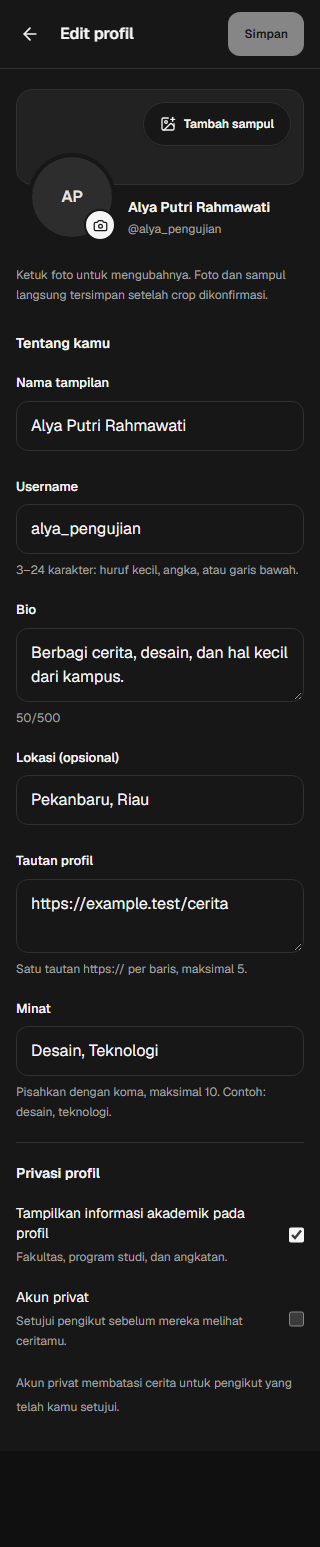
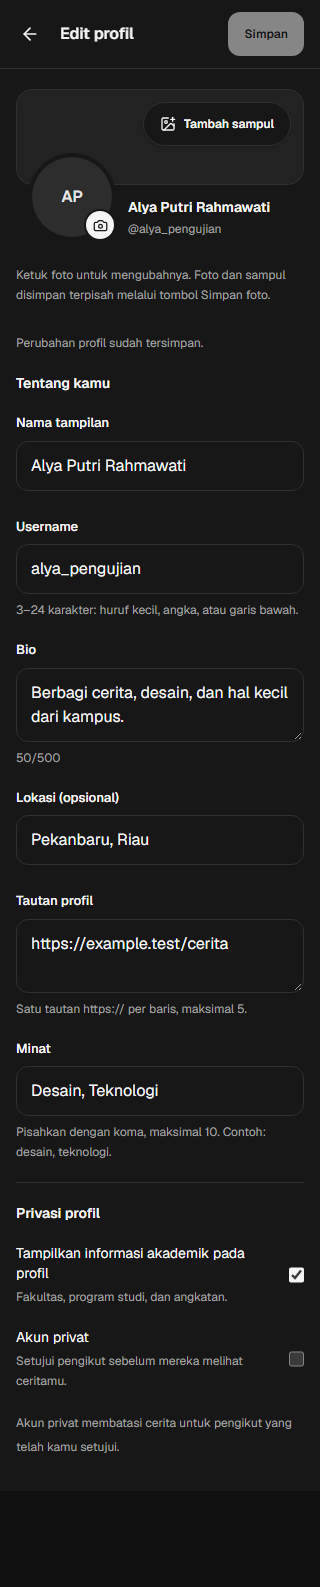
Record verified mobile profile deployment and regression evidence

diff --git a/docs/testing/mobile-readiness-2026-10-17.md b/docs/testing/mobile-readiness-2026-10-17.md
@@ -1,6 +1,6 @@
 # Mobile UI and profile readiness, 2026-10-17
 
-Implementation and final acceptance in progress. This change concerns the responsive web/PWA interface; it does not certify Expo or physical phones.
+Application source abb9b55 is deployed on web as mobile-abb9b55, with gateway recreated. API/worker/Reverb retain daily-52c533e because their source is unchanged. This change concerns the responsive web/PWA interface; it does not certify Expo or physical phones.
 
 ## Changes
 
@@ -19,6 +19,23 @@ Empty Following and bookmarks pages offer working destinations, and empty own-pr
 - Web lint/type checking and four unit tests passed (crop geometry plus draft isolation/expiry/validation/storage failure/cleanup).
 - Initial targeted browser runs found duplicate photo alerts and selectors that matched Next's route announcer. Tests now target the actual error and real media response shape. Next Image normalizes src attributes to absolute URLs when an error handler exists; fixture assertions and authenticated media request construction now support both relative/absolute URLs.
 - Nine corrected targeted development-browser cases passed (42.3 seconds), including duplicate save, recovery, output pixels, constrained keyboard viewport, long identity, cover retry, image upload/reload/removal and old profile-edit failure/retry. The final name-height/avatar placement refinement is included in the final production build/rerun, not claimed covered by the earlier checkpoint.
-- Final complete production-build and deployed-assets browser runs plus exact-source CI remain pending at this checkpoint.
+- All 52 local production-build fixture browser cases passed (3.2 minutes), including the final name-height/avatar-placement refinement. All 52 deployed public-assets fixture cases also passed (3.5 minutes).
 
 Keyboard evidence uses an explicitly simulated visualViewport at height 360/top offset 30 within a 320x640 browser. Light/dark and long-text checks use fixtures and Axe. Physical keyboard/camera/gallery/OS-install and two real campus accounts remain BELUM DIUJI, as previously deferred. Real API acceptance uses disposable accounts/databases only; no production owner impersonation or seeding.
+
+## Deployment checkpoint
+
+Before deployment, the existing backup helper completed a verified same-host backup at `/srv/simeyo/backups/scheduled/20261017T031640Z-04b3e542/`. This is not off-host protection. Both image builds completed successfully; only web/gateway were recreated. A private pre-change environment snapshot and previous images remain for rollback. No migration, production seeding or restore was performed.
+
+Post-start checks passed: trusted HTTPS, root/login/manifest/API health (200), authenticated API rejection (401), hidden environment/PHP entry (404), CSRF cookie (204) and unsafe requests without CSRF (419), plus an actual WSS handshake. Queue probe passed, ready/failed jobs were zero, recent 5xx was zero and the operations monitor reported healthy.
+
+Fresh screenshots were inspected for the 390px dark editor, 320px long light profile and simulated keyboard dark crop sheet. Evidence distinguishes mocked UI behaviors from the separate real API/database browser workflows.
+
+## Final acceptance
+
+- Exact-source standard CI [38998215997](https://github.com/mhmdhabibrafi/simeyo/actions/runs/38998215997) passed every web/API/mobile/production-stack job. API: 94 tests / 694 assertions; isolated backup/restore and 960-request production-shaped load checks also passed. These checks do not establish public-server load capacity.
+- Real API/database browser settings regression [38998216764](https://github.com/mhmdhabibrafi/simeyo/actions/runs/38998216764) passed: protected accessibility (1 case, 8.8s), sessions/media (1 case, 6.7s), social (2 cases, 18.7s). Actual avatar/cover upload, reload, removal and private-media protections were exercised against disposable data.
+- Real API/database privacy/messaging browser workflow [38998219851](https://github.com/mhmdhabibrafi/simeyo/actions/runs/38998219851) passed: communications (1 case, 12.6s), social (2 cases, 15.0s).
+- Public-assets run used fictional API fixtures, not production-user authentication. Fresh 320px light editor and light keyboard-sheet screenshots were inspected after the final public run as well.
+
+No v1.0 readiness certification: physical-device keyboard/gallery/install and real campus-account/provider/email acceptance remain BELUM DIUJI. In-browser storage can be unavailable; recovery reports that limitation. Image selections are not stored across reload, and independent concurrent profile editors are not merged automatically.

diff --git a/docs/operations/mediasi-server.md b/docs/operations/mediasi-server.md
@@ -1,5 +1,7 @@
 # Mediasi server installation — 2026-10-15
 
+Mobile/profile readiness polish (2026-10-17): source abb9b55 is deployed on web as mobile-abb9b55; gateway recreated, API/worker/Reverb retain daily-52c533e. Added recoverable session profile drafts, response-driven photo/profile caches, guarded saving, matching transparent crop output, fixed image fallback/retry geometry, common secondary headers, keyboard viewport sizing and useful empty/error states. Four unit tests, all 52 local production-build cases (3.2m), all 52 public-assets fixture cases (3.5m), exact-source standard CI 38998215997 and real-API browser workflows 38998216764/38998219851 passed. Server HTTPS/CSRF/WSS/queue/monitor checks passed; verified same-host backup retained. Physical phones and real campus accounts remain BELUM DIUJI. See ../testing/mobile-readiness-2026-10-17.md.
+
 Daily-use/mobile-profile update (2026-10-17): application source 52c533e is deployed as daily-52c533e on API/web/worker/Reverb, gateway recreated. Added persisted feed hide/reduced-author ranking/reset, network-free URL cards, follower search/private-account feedback, expiring typing/global unread badges and reduced-motion controls. Redesigned mobile profile/banner editor with consistent 3:1 preview, independent crop/save and confirmed owned photo removal. API 94 tests / 694 assertions; seven contracts; five final focused browser cases and all 47 public-assets cases (3.1 minutes) passed. Fresh screenshots inspected. Actual private backup/hash verification and backup/monitor systemd service runs passed; daily backup and five-minute monitor timers enabled. TLS/health/CSRF/WSS and worker probe passed, zero ready/failed jobs and recent_5xx=0. One additive feed_preferences migration, no reset/seed. Real accounts/physical devices, off-host copies and external alarm delivery remain unverified/unconfigured. Final-source standard CI 38957075776 passed all four jobs; real-API browser 38957077506 and 38957082981 both passed. Isolated production-shaped load: 960 requests, zero failures, 119.94 seconds, endpoint p95 56-133 ms. Exact evidence: docs/testing/daily-use-2026-10-17.md.
 
 Profile/post/DM follow-up (2026-10-16): application source eaa424b is deployed on API/web/worker/Reverb as everyday-eaa424b; gateway recreated. Added photo crop/pan/zoom with explicit save, safer post edit/delete flows, private DM search/block/selected-message reports and moderator review, plus profile-tab/history scroll restoration. SQLite and PostgreSQL API: 89 tests / 635 assertions; 2 crop unit and 6 contract tests passed. All 42 public-assets UI cases passed (4.4 minutes); fresh screenshots inspected. Exact-source standard CI 38929169136 and real-API browser runs 38929229522/38929236306 passed. The additive conversation_reports migration was applied after restricted database/media backups; no reset/seed. TLS/health/CSRF/WSS and queue probe passed, zero ready/failed jobs. Two real campus accounts, inbox delivery and physical-device acceptance remain explicitly deferred. See docs/testing/profile-post-dm-2026-10-16.md.

diff --git a/PROGRESS.md b/PROGRESS.md
@@ -1,6 +1,6 @@
 # Simeyo implementation progress
 
-Mobile/profile readiness polish is in progress (2026-10-17). Added recoverable account-scoped profile drafts, response-driven photo/profile caches, guarded saving, transparent crop matching, fixed image fallback/retry geometry, common secondary headers, visual viewport sizing and actionable empty/error states. Four unit tests and nine focused browser cases passed before the final name-layout refinement; final production/deployment verification pending. See docs/testing/mobile-readiness-2026-10-17.md.
+Mobile/profile readiness polish (2026-10-17): source abb9b55 is deployed on web as mobile-abb9b55; gateway recreated, API/worker/Reverb retain daily-52c533e. Added recoverable session profile drafts, response-driven photo/profile caches, guarded saving, matching transparent crop output, fixed image fallback/retry geometry, common secondary headers, keyboard viewport sizing and useful empty/error states. Four unit tests, all 52 local production-build cases (3.2m), all 52 public-assets fixture cases (3.5m), exact-source standard CI 38998215997 and real-API browser workflows 38998216764/38998219851 passed. Server HTTPS/CSRF/WSS/queue/monitor checks passed; verified same-host backup retained. Physical phones and real campus accounts remain BELUM DIUJI. See docs/testing/mobile-readiness-2026-10-17.md.
 
 Daily-use/mobile-profile update (2026-10-17): application source 52c533e is deployed as daily-52c533e on API/web/worker/Reverb, gateway recreated. Added persisted feed hide/reduced-author ranking/reset, network-free URL cards, follower search/private-account feedback, expiring typing/global unread badges and reduced-motion controls. Redesigned mobile profile/banner editor with consistent 3:1 preview, independent crop/save and confirmed owned photo removal. API 94 tests / 694 assertions; seven contracts; five final focused browser cases and all 47 public-assets cases (3.1 minutes) passed. Fresh screenshots inspected. Actual private backup/hash verification and backup/monitor systemd service runs passed; daily backup and five-minute monitor timers enabled. TLS/health/CSRF/WSS and worker probe passed, zero ready/failed jobs and recent_5xx=0. One additive feed_preferences migration, no reset/seed. Real accounts/physical devices, off-host copies and external alarm delivery remain unverified/unconfigured. Final-source standard CI 38957075776 passed all four jobs; real-API browser 38957077506 and 38957082981 both passed. Isolated production-shaped load: 960 requests, zero failures, 119.94 seconds, endpoint p95 56-133 ms. Exact evidence: docs/testing/daily-use-2026-10-17.md.
 
